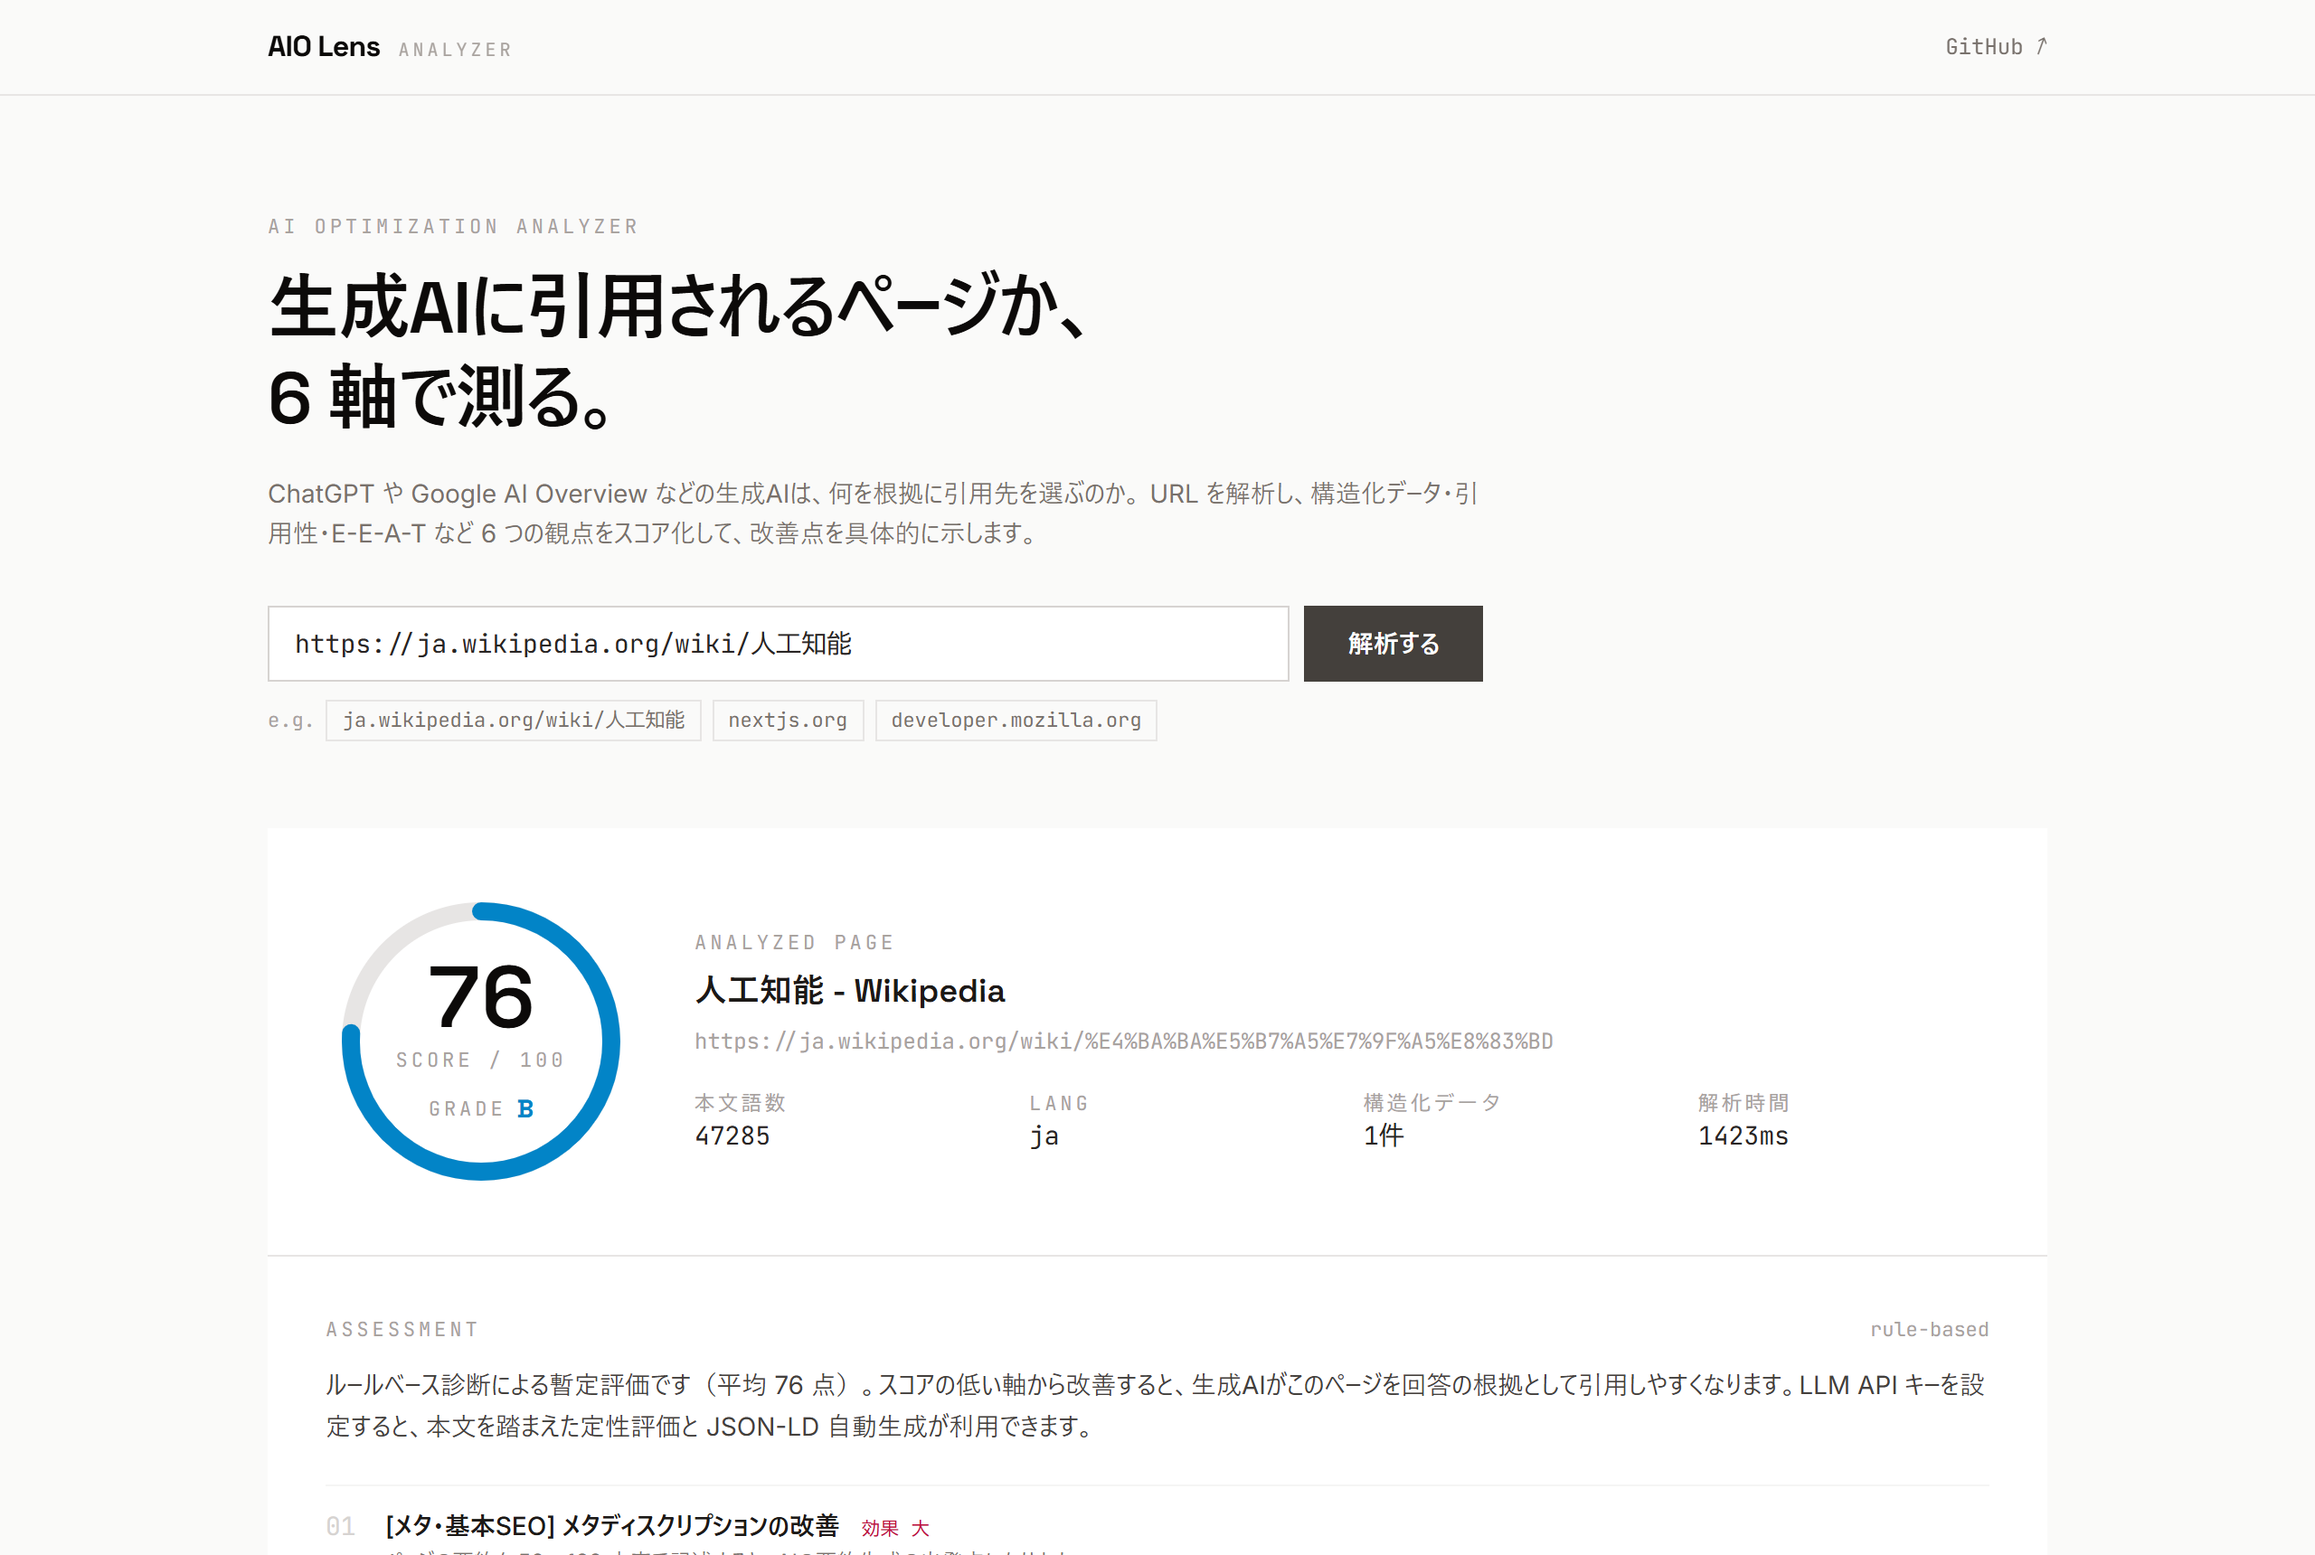
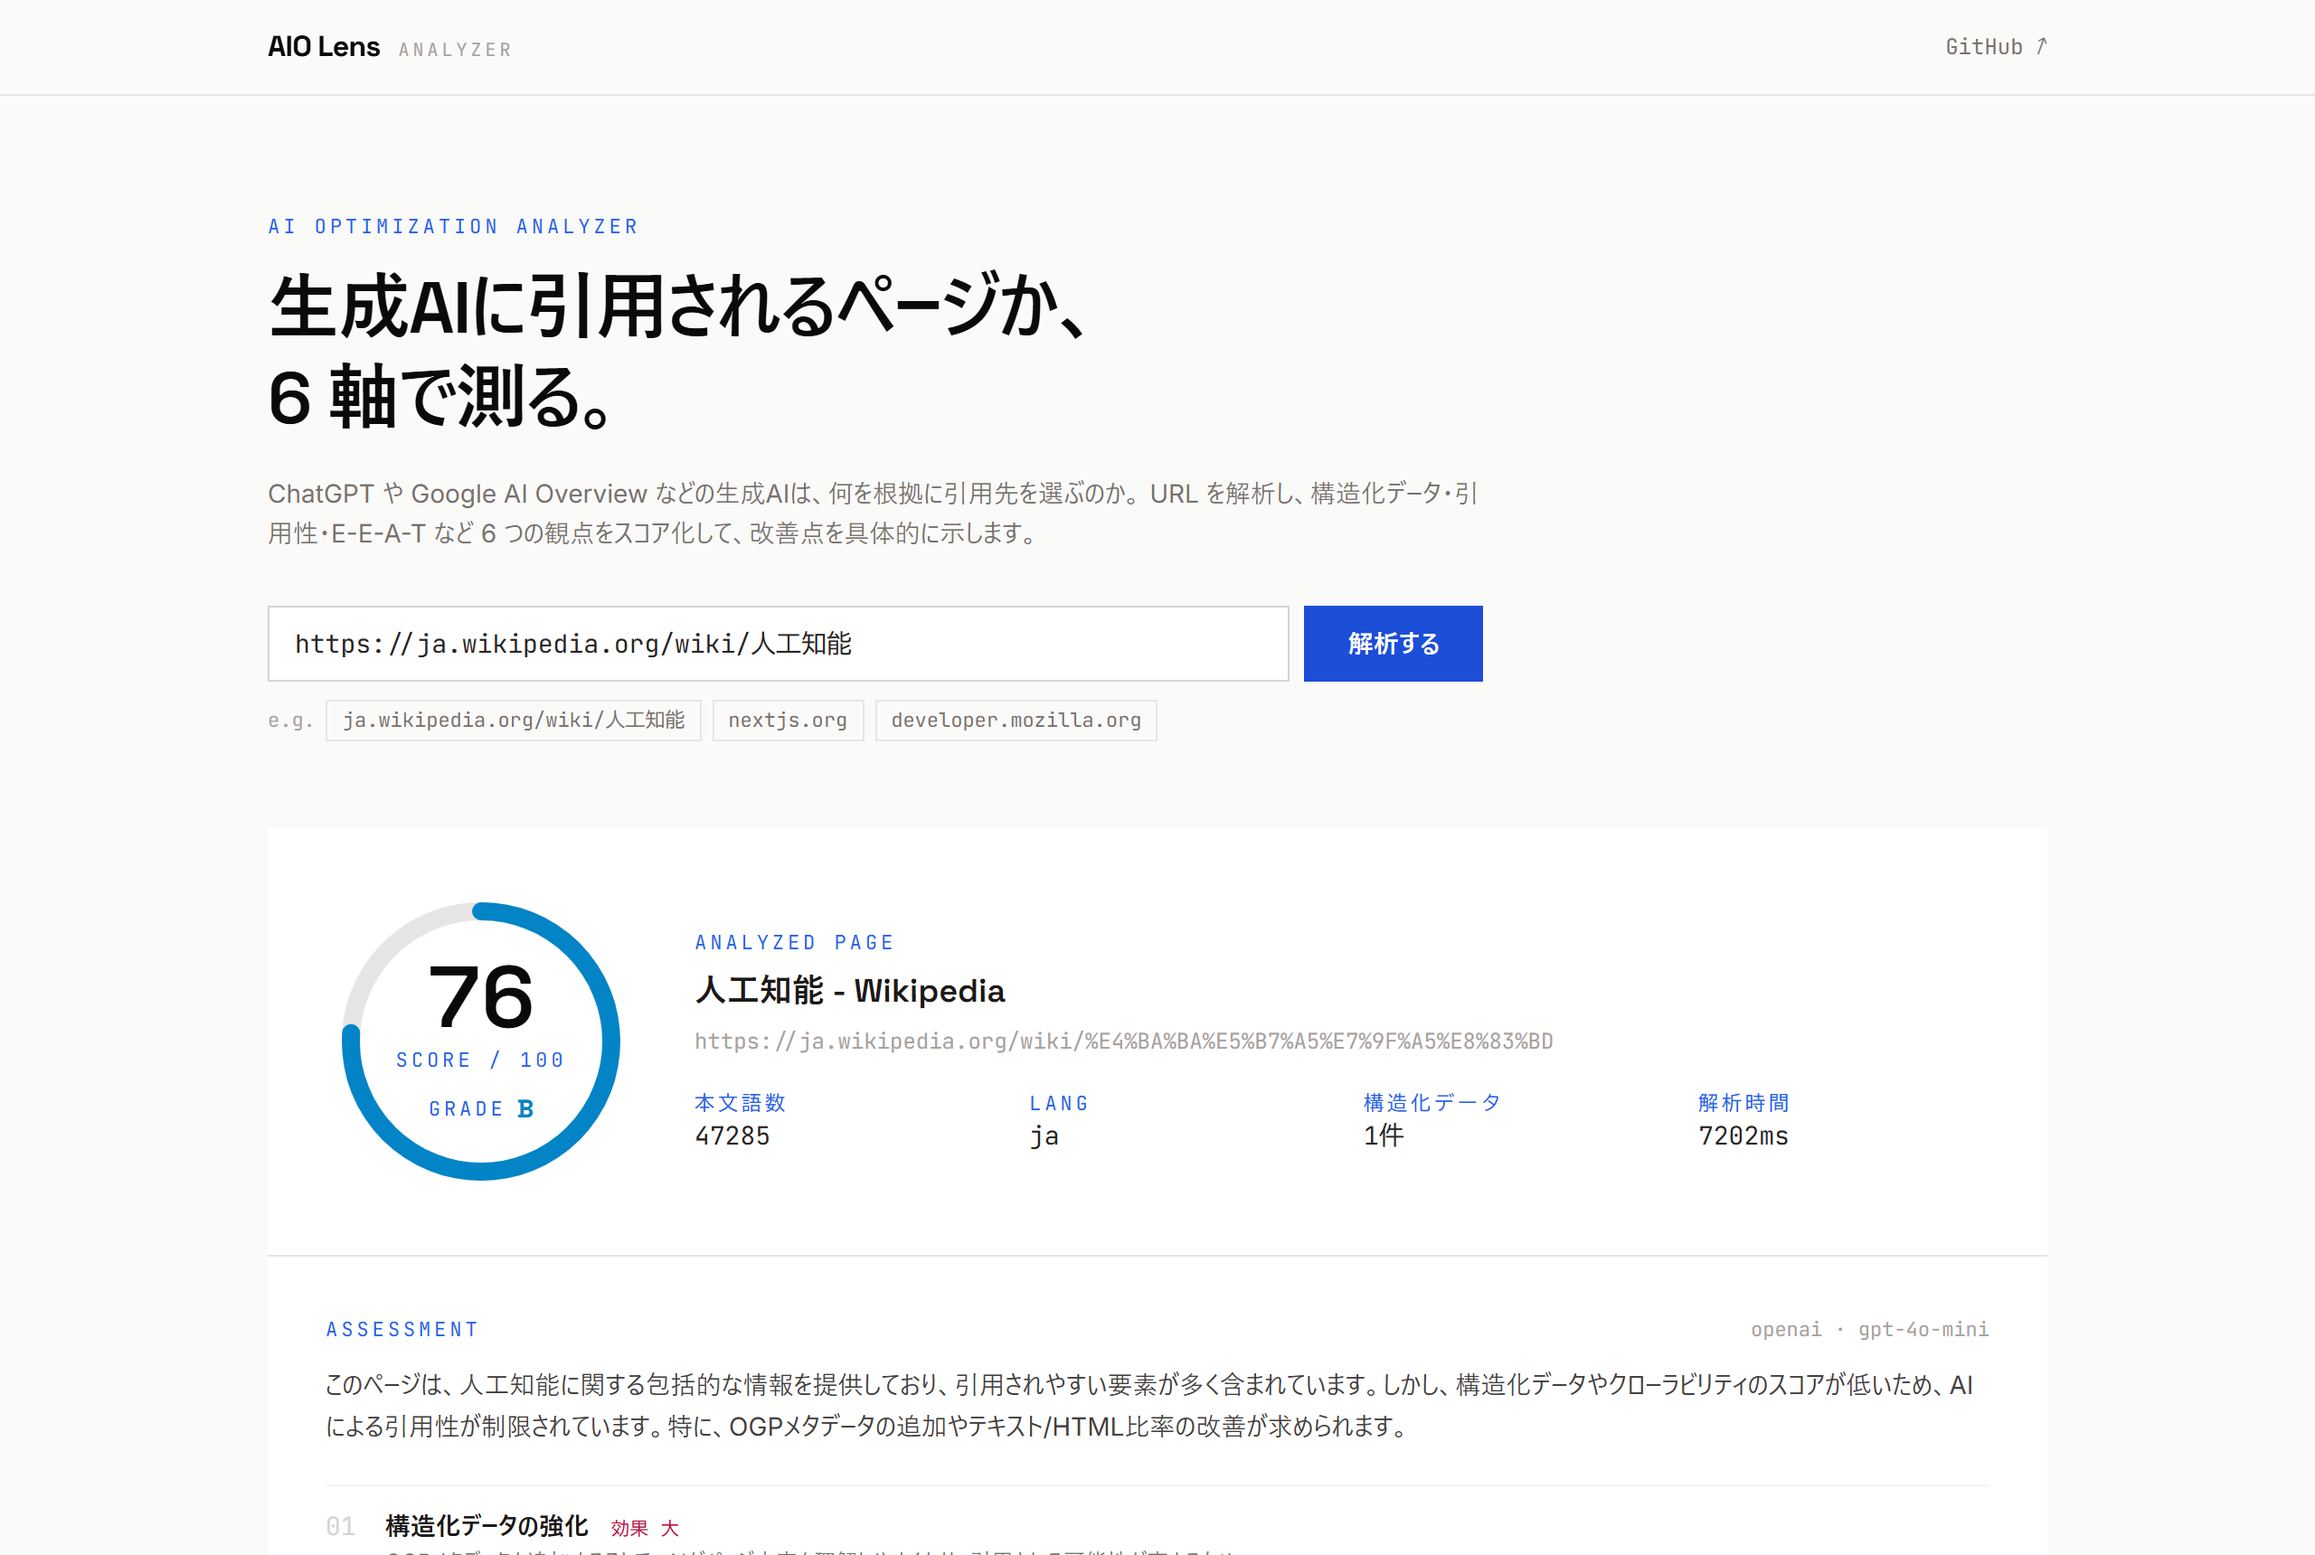
style: 配色を鮮やかなブランド色へ（ポートフォリオ=ブルー / AIO=ブルー / Research=ティールのスクショ更新）
清潔な構造・タイポ・絵文字なしは維持し、差し色とCTAの彩度・コントラストを向上。

diff --git a/index.html b/index.html
@@ -24,7 +24,7 @@
             surface: "#ffffff",  // カード面
             line: "#e7e3db",     // ヘアライン罫線
             muted: "#6b6660",    // 補助テキスト
-            accent: "#9a3412",   // テラコッタ（差し色：最小限）
+            accent: "#2563eb",   // ブランド差し色＝ブルー
           },
           fontFamily: {
             display: ['Manrope', '"Zen Kaku Gothic New"', 'system-ui', 'sans-serif'],
@@ -49,7 +49,7 @@
       --paper: #f7f6f3;
       --line: #e7e3db;
       --muted: #6b6660;
-      --accent: #9a3412;
+      --accent: #2563eb;
     }
 
     html { scroll-behavior: smooth; }
@@ -164,7 +164,7 @@
 
       <div class="flex items-center gap-2">
         <a href="#contact"
-          class="hidden rounded-md bg-ink px-4 py-2 text-sm font-semibold text-paper transition hover:bg-stone-700 sm:inline-block">お問い合わせ</a>
+          class="hidden rounded-md bg-accent px-4 py-2 text-sm font-semibold text-white transition hover:bg-blue-700 sm:inline-block">お問い合わせ</a>
         <!-- モバイル用メニューボタン -->
         <button id="menu-button" type="button" aria-label="メニュー" aria-expanded="false" aria-controls="mobile-menu"
           class="flex h-9 w-9 items-center justify-center rounded-md border border-line text-ink md:hidden">
@@ -208,7 +208,7 @@
 
           <div class="mt-8 flex flex-wrap gap-3">
             <a href="#projects"
-              class="rounded-md bg-ink px-5 py-2.5 text-sm font-semibold text-paper transition hover:bg-stone-700">制作物を見る</a>
+              class="rounded-md bg-accent px-5 py-2.5 text-sm font-semibold text-white transition hover:bg-blue-700">制作物を見る</a>
             <a href="#contact"
               class="rounded-md border border-line bg-surface px-5 py-2.5 text-sm font-semibold text-ink transition hover:border-stone-400">お仕事のご相談</a>
           </div>
